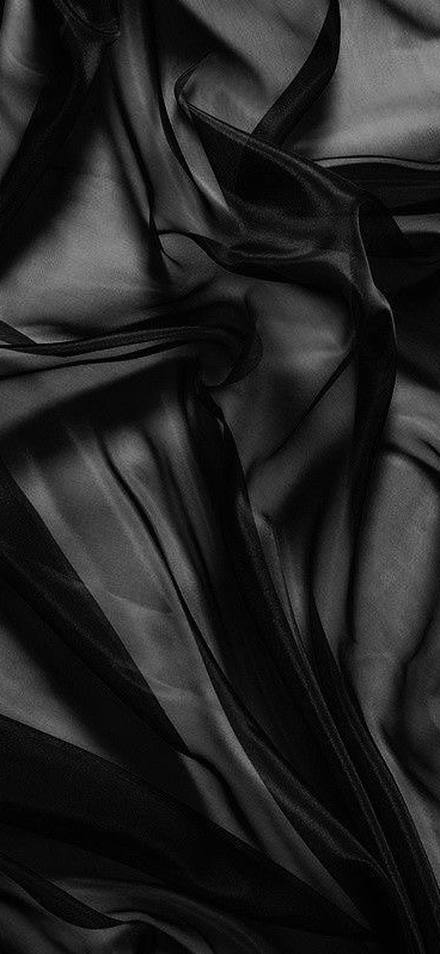
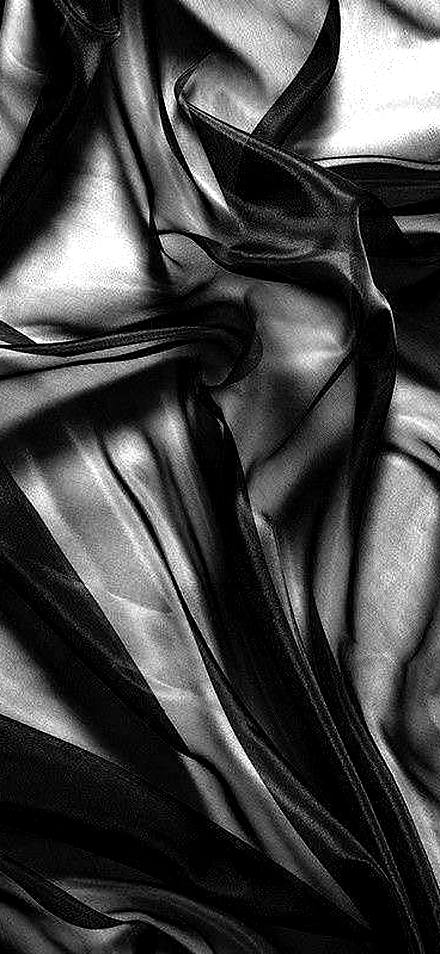
VIDNO: obnovlenie 08.09.2026 13-29

diff --git a/index.html b/index.html
@@ -14,7 +14,7 @@
 <link rel="icon" href="icon-180.png">
 <link rel="preconnect" href="https://fonts.googleapis.com">
 <link rel="preconnect" href="https://fonts.gstatic.com" crossorigin>
-<link rel="stylesheet" href="https://fonts.googleapis.com/css2?family=Prata&family=Playfair+Display:ital,wght@1,400;1,500&family=Onest:wght@300;400;500&family=JetBrains+Mono:wght@400;500&family=Cormorant+Garamond:wght@300;400;500;600&family=Fira+Mono&display=swap">
+<link rel="stylesheet" href="https://fonts.googleapis.com/css2?family=Prata&family=Playfair+Display:ital,wght@1,400;1,500&family=Onest:wght@300;400;500&family=JetBrains+Mono:wght@400;500&family=Cormorant+Garamond:wght@300;400;500;600&family=Fira+Mono&family=Manrope:wght@200;300&family=Yeseva+One&display=swap">
 
 </head>
 <body>
@@ -994,7 +994,7 @@ body{
   touch-action:none;          /* палец тянет заставку, а не страницу */
   -webkit-tap-highlight-color:transparent;
   transition:opacity .34s ease-in, transform .58s cubic-bezier(.22,.61,.36,1);
-  --mx:50%; --my:34%; --px:0px; --py:0px;
+  --px:0px; --py:0px;
 }
 .splash[hidden]{display:none;}
 .splash.is-leaving{opacity:0;transform:translate3d(0,-28px,0);pointer-events:none;}
@@ -1002,7 +1002,7 @@ body{
 .splash.is-dragging{transition:none;}
 .splash:focus-visible{outline:1px solid var(--acc,#D98FA4);outline-offset:-4px;}
 
-.sp-slide{position:absolute;inset:0;opacity:0;transition:opacity .34s ease;}
+.sp-slide{position:absolute;inset:0;opacity:0;transition:opacity .16s linear;}
 .sp-slide.on{opacity:1;}
 .sp-slide i{
   position:absolute;inset:-7%;display:block;
@@ -1011,27 +1011,10 @@ body{
   will-change:transform;
 }
 
-.sp-spec{
-  position:absolute;inset:0;pointer-events:none;mix-blend-mode:screen;
-  background:radial-gradient(var(--shape,circle) at var(--mx) var(--my),
-    rgba(255,249,242,var(--i,.3)) 0%,
-    rgba(255,246,236,calc(var(--i,.3) * .34)) 34%,
-    rgba(255,246,236,0) var(--r,55%));
-}
-.sp-core{
-  position:absolute;inset:0;pointer-events:none;mix-blend-mode:screen;
-  background:radial-gradient(circle at var(--mx) var(--my),
-    rgba(255,252,247,var(--i2,0)) 0%, rgba(255,252,247,0) var(--r2,14%));
-}
-.sp-shade{
-  position:absolute;inset:0;pointer-events:none;mix-blend-mode:multiply;
-  background:radial-gradient(circle at calc(100% - var(--mx)) calc(100% - var(--my)),
-    rgba(24,16,20,.42) 0%, rgba(24,16,20,0) 62%);
-}
 .sp-veil{
   position:absolute;inset:0;pointer-events:none;
-  background:linear-gradient(180deg, rgba(12,8,13,.56) 0%, rgba(12,8,13,.05) 26%,
-                                     rgba(12,8,13,.16) 58%, rgba(12,8,13,.74) 100%);
+  background:linear-gradient(180deg, rgba(12,8,13,.46) 0%, rgba(12,8,13,.03) 26%,
+                                     rgba(12,8,13,.12) 58%, rgba(12,8,13,.66) 100%);
 }
 .sp-grain{position:absolute;inset:-25%;opacity:.06;pointer-events:none;}
 
@@ -1054,18 +1037,17 @@ body{
   transform:translateY(-50%);
   z-index:3;text-align:center;
   color:var(--acc,#F7EFF1);
-  transition:color .5s ease;
+  transition:color .18s linear;
 }
 .logo{
   margin:0;
-  font-family:var(--f-logo);
+  font-family:var(--lf, var(--f-logo));
   font-weight:var(--lw,300);
-  font-size:54px;
-  letter-spacing:.20em;
-  text-indent:.20em;
+  font-size:var(--lsz,54px);
+  letter-spacing:var(--lt,.20em);
+  text-indent:var(--lt,.20em);
   line-height:1;
   text-shadow:var(--halo);
-  transition:font-weight .3s ease;
 }
 .sp-line{
   margin:17px 0 0;
@@ -1109,9 +1091,6 @@ body{
   <!-- ЭКРАН ОТКРЫТИЯ · без нижней панели -->
   <div class="splash" id="splash" tabindex="0" role="button" aria-label="Войти в приложение">
     <div class="sp-slides" id="sp-slides"></div>
-    <div class="sp-spec"></div>
-    <div class="sp-core"></div>
-    <div class="sp-shade"></div>
     <div class="sp-veil"></div>
     <svg class="sp-grain" aria-hidden="true"><filter id="sp-gr"><feTurbulence type="fractalNoise" baseFrequency="0.85" numOctaves="3" stitchTiles="stitch"/></filter><rect width="100%" height="100%" filter="url(#sp-gr)"/></svg>
 
@@ -1597,36 +1576,32 @@ body{
   }
 
   // ═══════════ заставка на текстурах ═══════════
-  // Колода: из одиннадцати тканей на каждый запуск берём пять случайных.
-  // Одиннадцать человек всё равно не увидит — заставка живёт секунд восемь.
+  // Все одиннадцать тканей, порядок каждый раз новый, кадр держится 0,9 с.
+  // Бликов нет: контраст несёт сама фотография.
+  // Начертание названия меняется вместе с материалом — по семьям, не наугад.
 
-  var SP_TEX = [
-    {id:'brown-leather', mat:'leather-matte', acc:'#9FD3E3', w:300, halo:'dark'},
-    {id:'olive-knit',    mat:'knit',          acc:'#F2A9C4', w:400, halo:'dark'},
-    {id:'lace-leather',  mat:'leather-gloss', acc:'#E0374B', w:500, halo:'dark'},
-    {id:'zebra',         mat:'fur',           acc:'#C4587A', w:600, halo:'both'},
-    {id:'python',        mat:'scale',         acc:'#7A2E44', w:600, halo:'light'},
-    {id:'chiffon',       mat:'silk',          acc:'#E7A6B8', w:300, halo:'dark'},
-    {id:'croc',          mat:'scale-gloss',   acc:'#9FD8C0', w:400, halo:'dark'},
-    {id:'black-fur',     mat:'fur',           acc:'#E7A6B8', w:300, halo:'dark'},
-    {id:'leopard',       mat:'fur',           acc:'#B9A6E8', w:600, halo:'dark'},
-    {id:'wine-leather',  mat:'leather-gloss', acc:'#E3C77A', w:300, halo:'dark'},
-    {id:'denim',         mat:'weave',         acc:'#F2B79A', w:400, halo:'dark'}
-  ];
-
-  // характер блика по материалу
-  var SP_MAT = {
-    'leather-gloss': {r:'42%', i:.46, shape:'circle',          r2:'15%', i2:.24},
-    'leather-matte': {r:'58%', i:.30, shape:'circle',          r2:'0%',  i2:0},
-    'scale-gloss':   {r:'44%', i:.48, shape:'circle',          r2:'15%', i2:.26},
-    'scale':         {r:'52%', i:.26, shape:'circle',          r2:'0%',  i2:0},
-    'silk':          {r:'48%', i:.44, shape:'ellipse 30% 66%', r2:'14%', i2:.20},
-    'fur':           {r:'74%', i:.22, shape:'circle',          r2:'0%',  i2:0},
-    'knit':          {r:'68%', i:.16, shape:'circle',          r2:'0%',  i2:0},
-    'weave':         {r:'62%', i:.18, shape:'circle',          r2:'0%',  i2:0}
+  var SP_FONT = {
+    serif: {f:'"Cormorant Garamond",Georgia,serif', s:'54px', w:300, t:'.20em'},  // гладкое, дорогое
+    heavy: {f:'"Yeseva One",Georgia,serif',         s:'38px', w:400, t:'.14em'},  // пёстрое, нужен вес
+    mono:  {f:'"Fira Mono",monospace',              s:'33px', w:400, t:'.30em'},  // техническое
+    geo:   {f:'"Manrope",Arial,sans-serif',         s:'42px', w:200, t:'.32em'}   // матовое, мягкое
   };
 
-  // ореол под названием: на светлой пестроте светлый, на тёмной тёмный
+  var SP_TEX = [
+    {id:'brown-leather', acc:'#9FD3E3', halo:'dark',  f:'geo'},
+    {id:'olive-knit',    acc:'#F2A9C4', halo:'dark',  f:'geo'},
+    {id:'lace-leather',  acc:'#E0374B', halo:'dark',  f:'mono'},
+    {id:'zebra',         acc:'#C4587A', halo:'both',  f:'heavy'},
+    {id:'python',        acc:'#7A2E44', halo:'light', f:'heavy'},
+    {id:'chiffon',       acc:'#E7A6B8', halo:'dark',  f:'serif'},
+    {id:'croc',          acc:'#9FD8C0', halo:'dark',  f:'serif'},
+    {id:'black-fur',     acc:'#E7A6B8', halo:'dark',  f:'geo'},
+    {id:'leopard',       acc:'#B9A6E8', halo:'dark',  f:'heavy'},
+    {id:'wine-leather',  acc:'#E3C77A', halo:'dark',  f:'serif'},
+    {id:'denim',         acc:'#F2B79A', halo:'dark',  f:'mono'}
+  ];
+
+  // ореол: на светлой пестроте светлый, на тёмной тёмный, на зебре оба сразу
   var SP_HALO = {
     dark:  '0 1px 0 rgba(255,255,255,.26), 0 2px 10px rgba(0,0,0,.62), 0 0 26px rgba(0,0,0,.45)',
     light: '0 1px 0 rgba(255,255,255,.8), 0 0 12px rgba(255,252,248,.9), 0 1px 4px rgba(0,0,0,.3)',
@@ -1634,7 +1609,7 @@ body{
   };
 
   var spBox   = document.getElementById('sp-slides');
-  var spCards = SP_TEX.slice().sort(function(){ return Math.random() - 0.5; }).slice(0, 5);
+  var spCards = SP_TEX.slice().sort(function(){ return Math.random() - 0.5; });  // порядок новый, набор полный
   var spSlides = spCards.map(function(t, n){
     var d = document.createElement('div');
     d.className = 'sp-slide' + (n === 0 ? ' on' : '');
@@ -1651,57 +1626,50 @@ body{
     spSlides[spI].classList.remove('on');
     spI = (n + spCards.length) % spCards.length;
     spSlides[spI].classList.add('on');
-    var t = spCards[spI], m = SP_MAT[t.mat] || SP_MAT['leather-matte'];
-    splash.style.setProperty('--r', m.r);
-    splash.style.setProperty('--i', m.i);
-    splash.style.setProperty('--shape', m.shape);
-    splash.style.setProperty('--r2', m.r2);
-    splash.style.setProperty('--i2', m.i2);
-    splash.style.setProperty('--acc', t.acc);
-    splash.style.setProperty('--lw', t.w);
+    var t = spCards[spI], f = SP_FONT[t.f];
+    splash.style.setProperty('--acc',  t.acc);
     splash.style.setProperty('--halo', SP_HALO[t.halo]);
+    splash.style.setProperty('--lf',   f.f);
+    splash.style.setProperty('--lsz',  f.s);
+    splash.style.setProperty('--lw',   f.w);
+    splash.style.setProperty('--lt',   f.t);
   }
 
-  // ── свет ──
-  var spTouched = false;                       // палец или наклон перебивают автоход
-  function spLight(x, y){
+  // ── глубина: текстура едет против наклона ──
+  var spTouched = false;
+  function spDepth(x, y){
+    if (still()) return;
     x = Math.max(6, Math.min(94, x));
     y = Math.max(8, Math.min(88, y));
-    splash.style.setProperty('--mx', x + '%');
-    splash.style.setProperty('--my', y + '%');
-    if (still()) return;
-    splash.style.setProperty('--px', ((50 - x) * 0.14).toFixed(1) + 'px');
-    splash.style.setProperty('--py', ((50 - y) * 0.10).toFixed(1) + 'px');
+    splash.style.setProperty('--px', ((50 - x) * 0.16).toFixed(1) + 'px');
+    splash.style.setProperty('--py', ((50 - y) * 0.12).toFixed(1) + 'px');
   }
 
   splash.addEventListener('pointermove', function(e){
     if (entered) return;
     spTouched = true;
     var b = splash.getBoundingClientRect();
-    spLight((e.clientX - b.left) / b.width * 100, (e.clientY - b.top) / b.height * 100);
+    spDepth((e.clientX - b.left) / b.width * 100, (e.clientY - b.top) / b.height * 100);
   });
 
   function spTilt(e){
     if (e.gamma == null || entered) return;
     spTouched = true;
-    spLight(50 + e.gamma * 1.1, 40 + (e.beta - 45) * 0.8);
+    spDepth(50 + e.gamma * 1.1, 40 + (e.beta - 45) * 0.8);
   }
 
-  // пока датчиков нет — пятно ходит само, медленно и не по кругу
-  function spOrbit(ms){
+  function spDrift(ms){
     if (entered) return;
-    if (!spTouched) spLight(50 + Math.sin(ms / 2600) * 26, 36 + Math.cos(ms / 3700) * 15);
-    requestAnimationFrame(spOrbit);
+    if (!spTouched) spDepth(50 + Math.sin(ms / 3400) * 26, 40 + Math.cos(ms / 4600) * 15);
+    requestAnimationFrame(spDrift);
   }
 
-  // iOS отдаёт наклон только после явного разрешения, а разрешение просит жест.
-  // Единственный жест на заставке — вход, поэтому спрашиваем один раз после входа:
-  // эта заставка доживёт без наклона, все следующие получат его.
+  // iOS отдаёт наклон только после жеста, а единственный жест на заставке — вход.
+  // Спрашиваем один раз после входа: эта заставка доживёт без наклона, следующие получат.
   function spAskTilt(){
     var D = window.DeviceOrientationEvent;
-    if (!D || flags.tilt === false) return;
+    if (!D || flags.tilt === false || flags.tilt === true) return;
     if (typeof D.requestPermission !== 'function') return;
-    if (flags.tilt === true) return;
     setTimeout(function(){
       D.requestPermission().then(function(res){
         flags.tilt = (res === 'granted');
@@ -1717,13 +1685,11 @@ body{
       window.addEventListener('deviceorientation', spTilt);
     }
     spShow(0);
-    spLight(50, 34);
     if (!still()){
-      spTimer = setInterval(function(){ if (!entered) spShow(spI + 1); }, 1800);
-      requestAnimationFrame(spOrbit);
+      spTimer = setInterval(function(){ if (!entered) spShow(spI + 1); }, 900);
+      requestAnimationFrame(spDrift);
     }
   })();
-
 
   // куда открывать приложение
   function route(){

diff --git a/sw.js b/sw.js
@@ -2,7 +2,7 @@
    Задача одна: страница всегда берётся из сети, иконки — из кеша,
    а когда выходит новая версия, приложение предлагает обновиться. */
 
-var BUILD = '20260908-1319';                       // эту строку переписывает deploy.bat при каждой публикации
+var BUILD = '20260908-1329';                       // эту строку переписывает deploy.bat при каждой публикации
 var CACHE = 'vidno-' + BUILD;
 var SHELL = ['./', './index.html', './icon-180.png', './icon-512.png', './manifest.json'];
 
